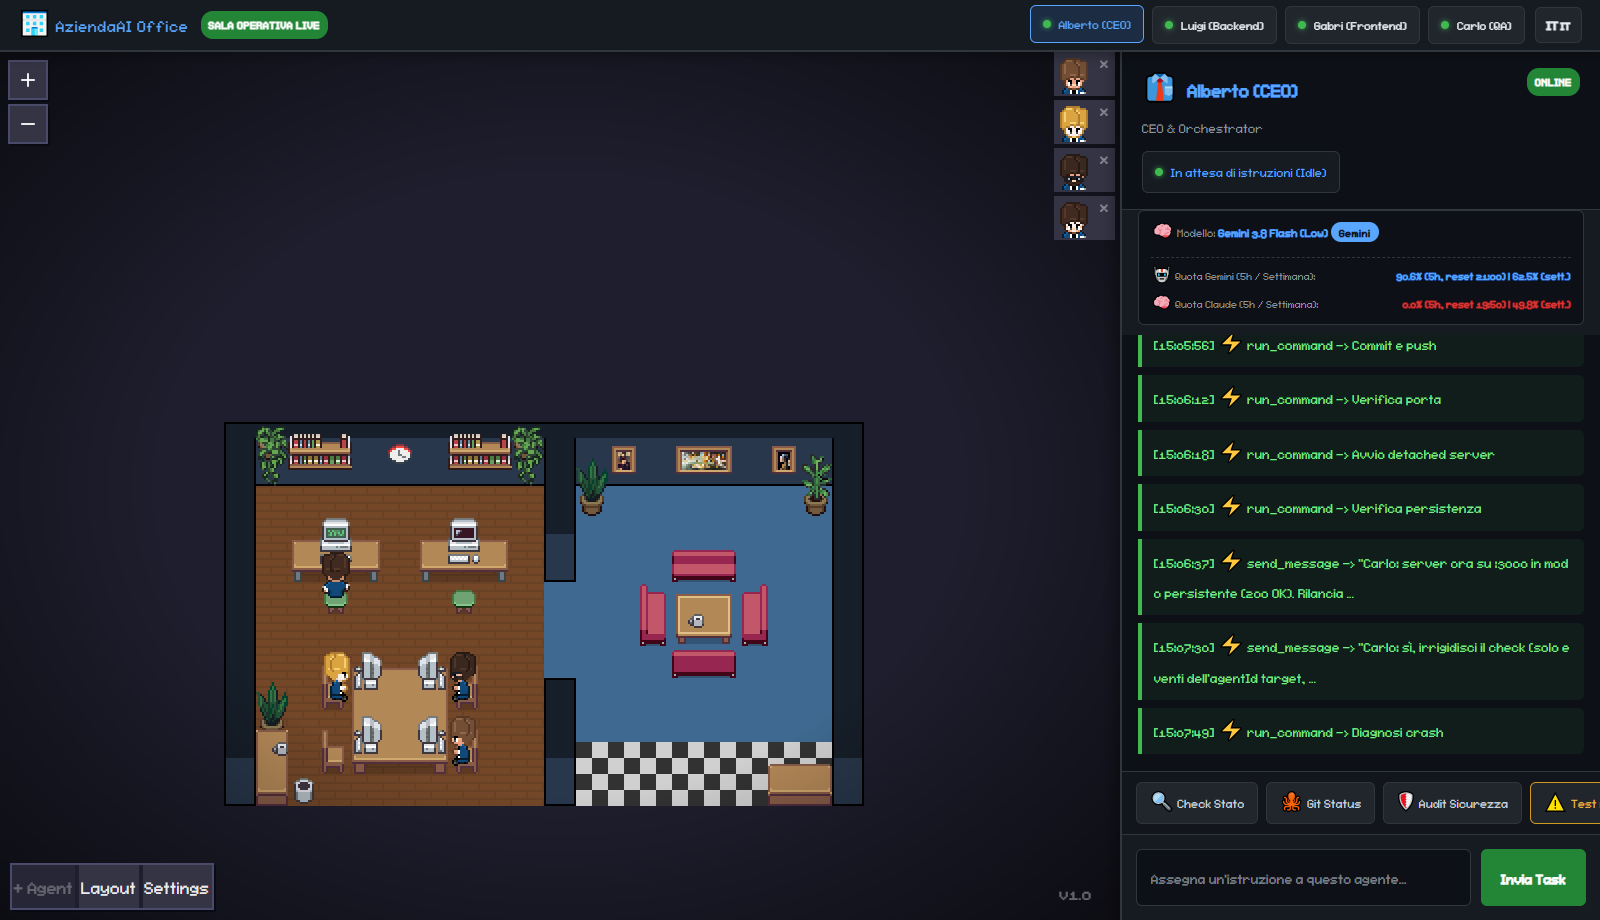
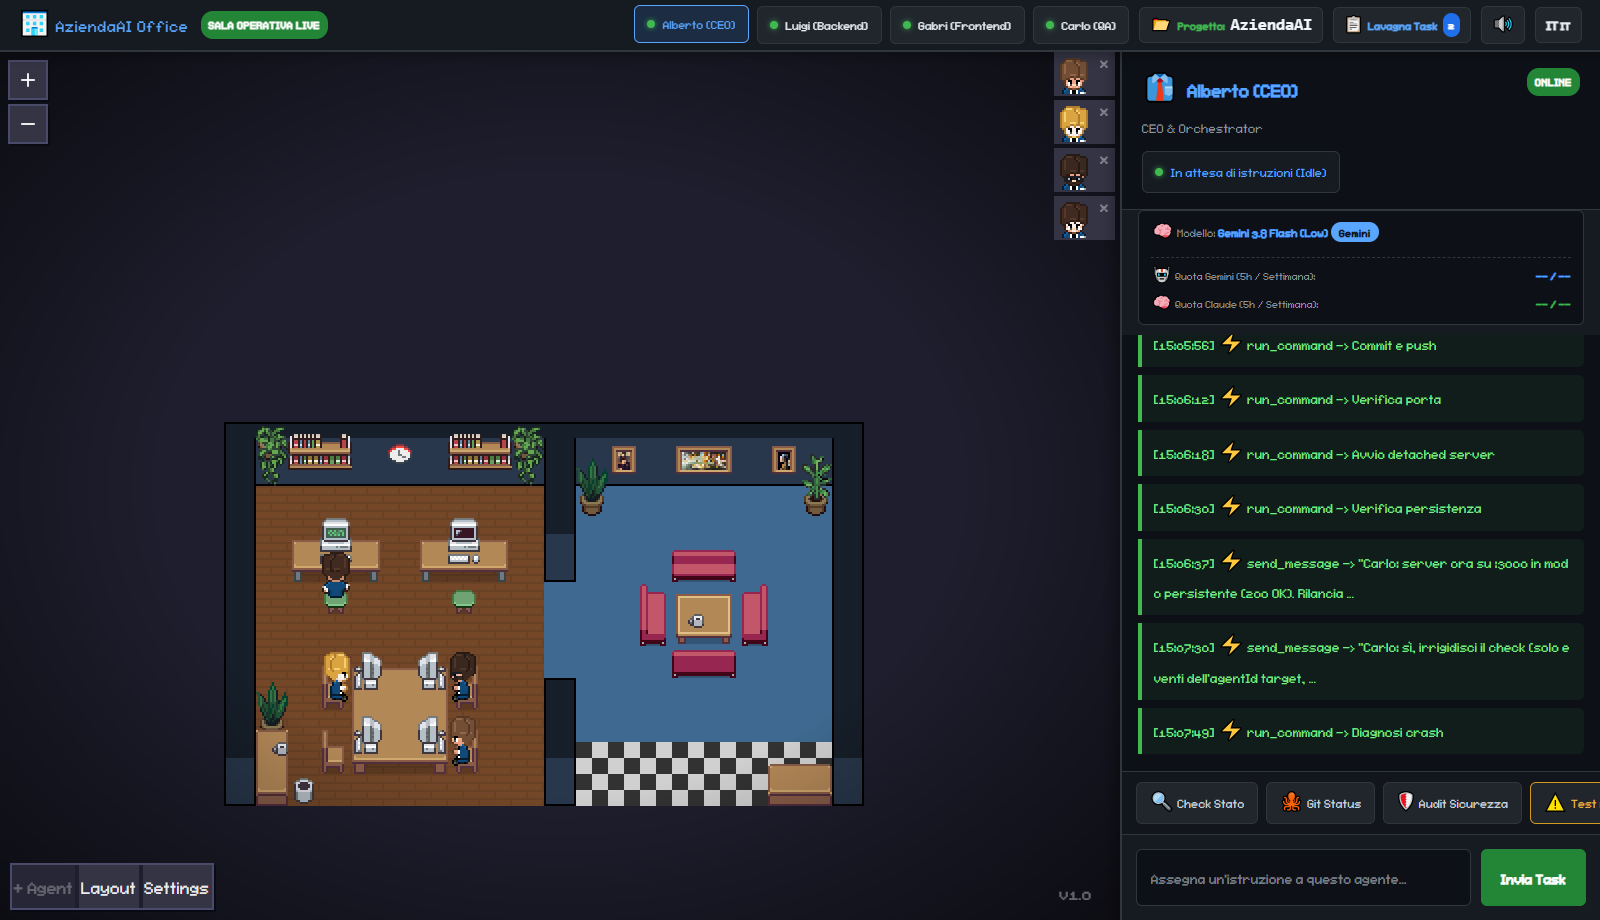
docs(readme): document all 6 virtual office innovations and update live screenshots

Changed region(s): [[0.375, 0.0, 0.9375, 0.0609], [0.875, 0.2739, 1.0, 0.3348]]

diff --git a/README.it.md b/README.it.md
@@ -52,7 +52,15 @@ Nella barra laterale destra (**Drawer Operativo**) hai sempre sotto controllo:
   - `🤖 Quota Gemini (5h / Settimana)`: es. `93.2% (5h, reset 21:00) | 63.2% (sett.)`
   - `🧠 Quota Claude (5h / Settimana)`: es. `0.0% (5h, reset 19:50) | 49.8% (sett.)`
 - **Stream Live delle Azioni**: ogni tool invocato dall'agente (`run_command`, `edit_file`, `send_message`) e ogni risposta finale compaiono in diretta nella console dell'agente selezionato.
-- **Quick Actions & Input Diretto**: pulsanti rapidi (`🔍 Check Stato`, `🐙 Git Status`, `🛡 Audit Sicurezza`, `🚶♂ Test Delegacy Alberto→Luigi`) e barra di testo per assegnare task immediati.
+- **Quick Actions & Input Diretto**: pulsanti rapidi (`🔍 Check Stato`, `🐙 Git Status`, `🛡 Audit Sicurezza`, `🚶♂ Test Delegacy Alberto→Luigi`, `☕ Pausa Divano`, `📢 Convoca Riunione`, `📊 Report CEO`) e barra di testo per assegnare task immediati.
+
+### 2. Le 6 Innovazioni Esclusive della Sala Operativa
+- **☕ Pausa Caffè / Divano Fisica in Sala Relax (`☕ Pausa Divano`)**: Quando il team entra in modalità `rest` (quota 0%), resta inattivo per oltre 5 minuti o premi `☕ Pausa Divano`, tutti e 4 gli agenti si alzano dalle scrivanie, camminano nella sala relax a destra e si siedono sui 4 divani attorno al tavolino del caffè, tornando immediatamente ai PC appena arriva un nuovo task!
+- **📢 Riunione Generale / Standup Meeting (`📢 Convoca Riunione`)**: Chiama a raccolta Luigi (`6`), Gabri (`7`) e Carlo (`8`) attorno alla scrivania di Alberto (CEO, `10`) per un briefing di allineamento sprint con fumetto live.
+- **📋 Lavagna Kanban Operativa a 3 Colonne (`📋 Lavagna Task`)**: Clicca il pulsante nella Topbar per aprire la lavagna Kanban sincronizzata in tempo reale via WebSocket (`⏳ In Coda / Riposo`, `⚡ In Corso / Assegnati`, `✅ Completati`).
+- **📂 Selettore Progetto Target Multi-Workspace (`📂 Progetto: ...` & `!project <percorso>`)**: Cambia in qualsiasi momento la cartella/repository su cui lavorano Alberto, Luigi, Gabri e Carlo sia dalla Topbar Web sia da Discord (`!project C:\percorso\progetto`).
+- **🔊 Motore Audio Retro 8-Bit Sintetizzato (`🔊 / 🔇`)**: Sintetizzatore chiptune WebAudio API (zero file esterni) con effetti sonori 8-bit dedicati per delega task, completamento, richiesta permessi, riunione standup e pausa divano.
+- **📊 Report Esecutivo CEO in 1-Click (`📊 Report CEO`)**: Genera istantaneamente un report direzionale in Markdown (progetto attivo, quote Gemini/Claude, stato del team, task Kanban completati e ultimi commit Git) copiabile o pubblicabile con 1 click in `#📢-sala-operativa` su Discord.
 
 ---
 

diff --git a/README.md b/README.md
@@ -52,7 +52,15 @@ In the right-hand **Operations Drawer**, you get instant visibility into:
   - `🤖 Gemini Quota (5h / Weekly)`: e.g. `93.2% (5h, reset 21:00) | 63.2% (weekly)`
   - `🧠 Claude Quota (5h / Weekly)`: e.g. `0.0% (5h, reset 19:50) | 49.8% (weekly)`
 - **Live Action Stream**: Every tool call (`run_command`, `edit_file`, `send_message`) and final response streams live into the selected agent's console.
-- **Quick Actions & Direct Prompting**: One-click buttons (`🔍 Check Status`, `🐙 Git Status`, `🛡 Security Audit`, `🚶♂ Test Delegation Alberto→Luigi`) plus a direct task input bar.
+- **Quick Actions & Direct Prompting**: One-click buttons (`🔍 Check Status`, `🐙 Git Status`, `🛡 Security Audit`, `🚶♂ Test Delegation Alberto→Luigi`, `☕ Sofa Break`, `📢 Call Standup Meeting`, `📊 CEO Report`) plus a direct task input bar.
+
+### 2. Built-in Virtual Office Innovations
+- **☕ Physical Sofa / Coffee Break Mode (`☕ Sofa Break`)**: When the team enters `rest` mode (0% quota), stays inactive for >5 minutes, or when you click `☕ Sofa Break`, all 4 agents stand up from their desks, walk into the right-hand lounge room, and sit on the 4 sofas around the coffee table—automatically returning to their workstations the instant a new task arrives!
+- **📢 All-Hands Standup Meeting (`📢 Call Standup Meeting`)**: Summons Luigi (`6`), Gabri (`7`), and Carlo (`8`) to walk over and gather around Alberto (CEO, `10`)'s desk for a synchronized sprint alignment huddle with a live speech bubble.
+- **📋 Live 3-Column Kanban Task Board (`📋 Task Board`)**: Click the Topbar badge to open a real-time Kanban modal synced via WebSocket (`⏳ Queued / Rest`, `⚡ In Progress / Dispatched`, `✅ Completed`).
+- **📂 Multi-Workspace Target Project Switcher (`📂 Workspace: ...` & `!project <path>`)**: Switch the active target directory from the Web Topbar or from Discord (`!project C:\path\to\repo`) so your team can work on any codebase on your machine.
+- **🔊 Synthesized 8-Bit Retro Audio Engine (`🔊 / 🔇`)**: Zero-dependency WebAudio API chiptune synthesizer playing subtle 8-bit chimes on task delegation, completion, permission alerts, standup meetings, and sofa breaks.
+- **📊 1-Click CEO Executive Report (`📊 CEO Report`)**: Generates a full Markdown executive summary (active workspace, Gemini/Claude quotas, team status, Kanban stats, and latest Git commits) with 1-click copy or direct broadcast to `#📢-sala-operativa` on Discord.
 
 ---
 
